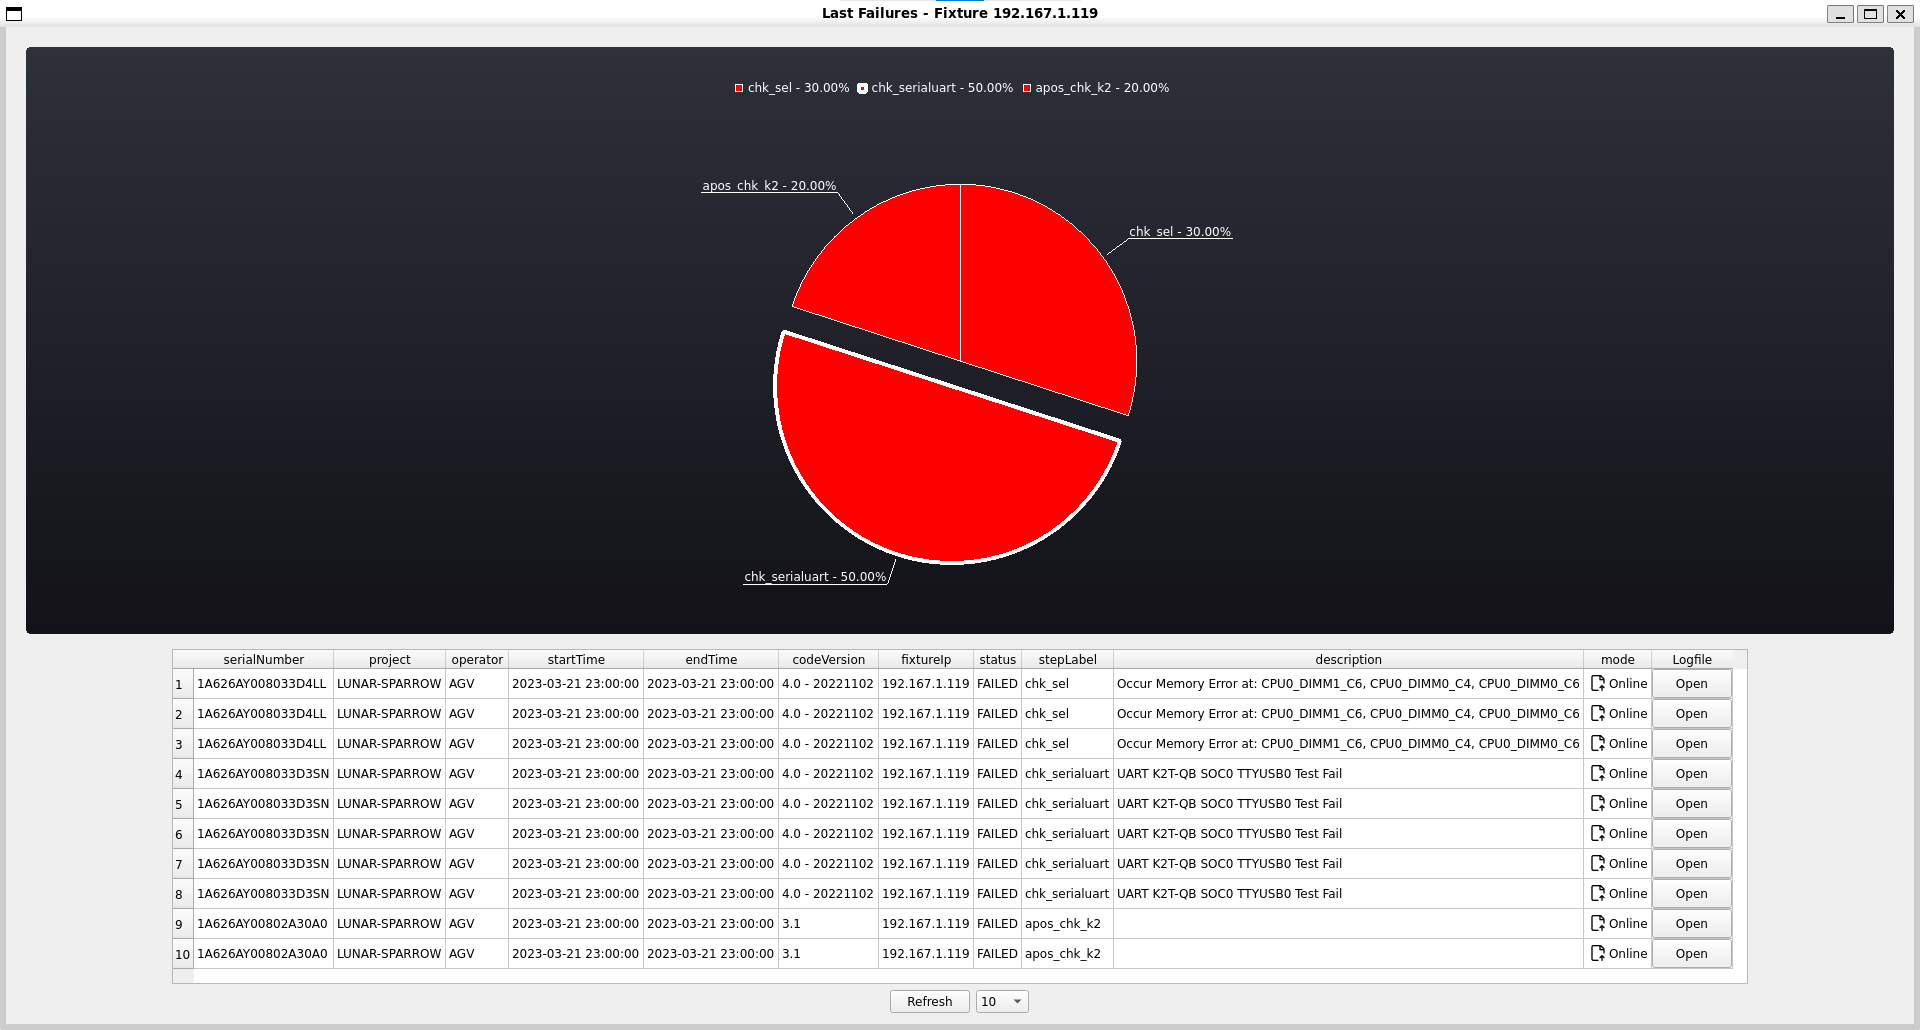
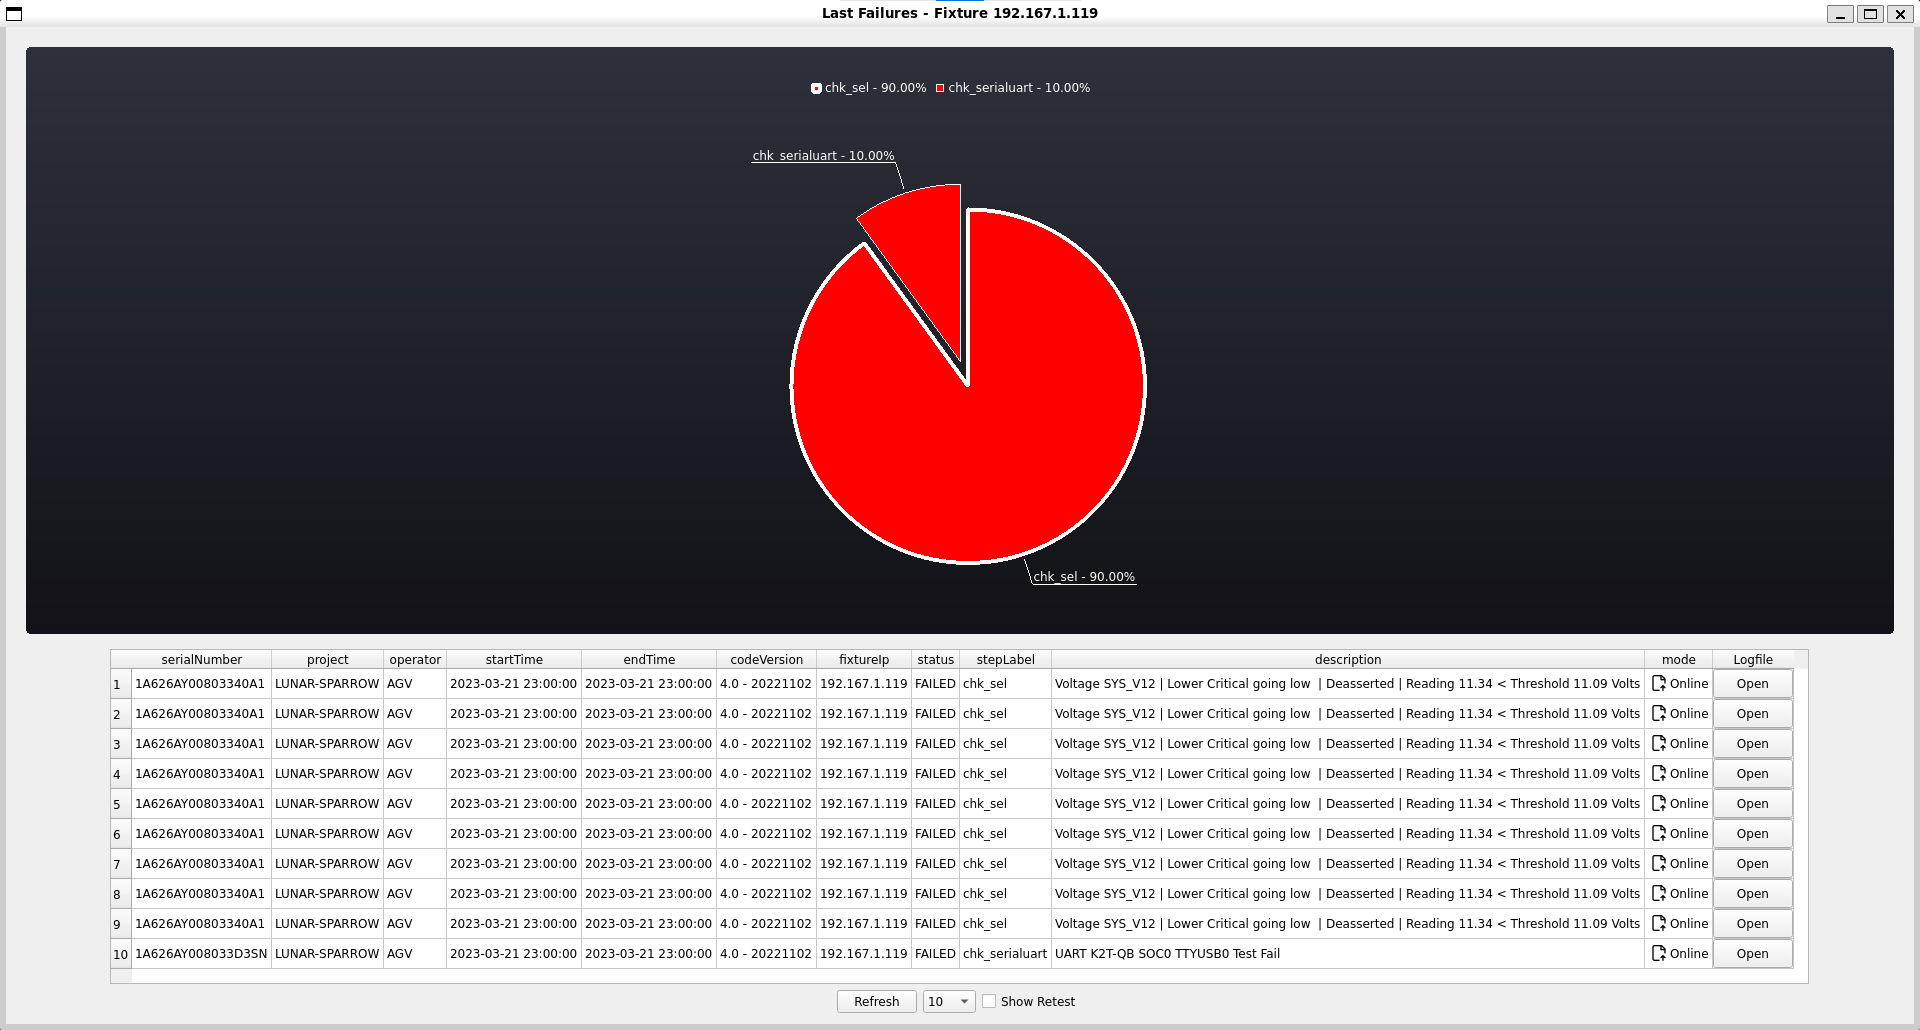
Docs: Update last logs window

diff --git a/docs/operation.html b/docs/operation.html
@@ -364,7 +364,14 @@
     Incrementar o disminuir la cantidad de pruebas visualizadas
   </a>
   
-    <nav class="md-nav" aria-label="Incrementar o disminuir la cantidad de pruebas visualizadas">
+</li>
+      
+        <li class="md-nav__item">
+  <a href="#mostrar-resultados-de-pruebas-realizadas-en-modo-retest-show-retest" class="md-nav__link">
+    Mostrar resultados de pruebas realizadas en modo Retest (Show Retest)
+  </a>
+  
+    <nav class="md-nav" aria-label="Mostrar resultados de pruebas realizadas en modo Retest (Show Retest)">
       <ul class="md-nav__list">
         
           <li class="md-nav__item">
@@ -587,7 +594,14 @@
     Incrementar o disminuir la cantidad de pruebas visualizadas
   </a>
   
-    <nav class="md-nav" aria-label="Incrementar o disminuir la cantidad de pruebas visualizadas">
+</li>
+      
+        <li class="md-nav__item">
+  <a href="#mostrar-resultados-de-pruebas-realizadas-en-modo-retest-show-retest" class="md-nav__link">
+    Mostrar resultados de pruebas realizadas en modo Retest (Show Retest)
+  </a>
+  
+    <nav class="md-nav" aria-label="Mostrar resultados de pruebas realizadas en modo Retest (Show Retest)">
       <ul class="md-nav__list">
         
           <li class="md-nav__item">
@@ -738,6 +752,9 @@
 <p class="admonition-title">Info</p>
 <p>La cantidad por defecto del combobox es la que mejor se adecúe a la configuración <code>yieldCalcQty</code>.</p>
 </div>
+<h2 id="mostrar-resultados-de-pruebas-realizadas-en-modo-retest-show-retest">Mostrar resultados de pruebas realizadas en modo Retest (Show Retest)</h2>
+<p>Muestra u oculta las pruebas realizadas en modo <code>Retest</code>.</p>
+<p>De manera automática se sincroniza el checkbox <code>Show Retests</code> con el modo actual de la fixtura, dando como resultado que una vez entrando en modo Retest al abrir la ventana de últimos resultados la tabla muestre todas las pruebas incluyendo aquellas realizadas bajo el modo retest, por el contrario, si la fixtura se encuentra en cualquier otro modo, el selector estará deshabilitado de manera predeterminada.</p>
 <h3 id="columna-description">Columna Description</h3>
 <p>En esta columna se guarda una síntesis de la causa por la cual falló la prueba, listando errores como problemas de dimm o el voltaje que provocó dicho comportamiento inesperado.</p>
 <h3 id="columna-mode">Columna Mode</h3>

diff --git a/Resources/MkDocs/xandra/docs/operation.md b/Resources/MkDocs/xandra/docs/operation.md
@@ -80,6 +80,12 @@ Si requiere visualizar un número diferente de registros puede seleccionar la ca
 !!! info
     La cantidad por defecto del combobox es la que mejor se adecúe a la configuración `yieldCalcQty`.
 
+## Mostrar resultados de pruebas realizadas en modo Retest (Show Retest)
+
+Muestra u oculta las pruebas realizadas en modo `Retest`.
+
+De manera automática se sincroniza el checkbox `Show Retests` con el modo actual de la fixtura, dando como resultado que una vez entrando en modo Retest al abrir la ventana de últimos resultados la tabla muestre todas las pruebas incluyendo aquellas realizadas bajo el modo retest, por el contrario, si la fixtura se encuentra en cualquier otro modo, el selector estará deshabilitado de manera predeterminada.
+
 ### Columna Description
 
 En esta columna se guarda una síntesis de la causa por la cual falló la prueba, listando errores como problemas de dimm o el voltaje que provocó dicho comportamiento inesperado.
